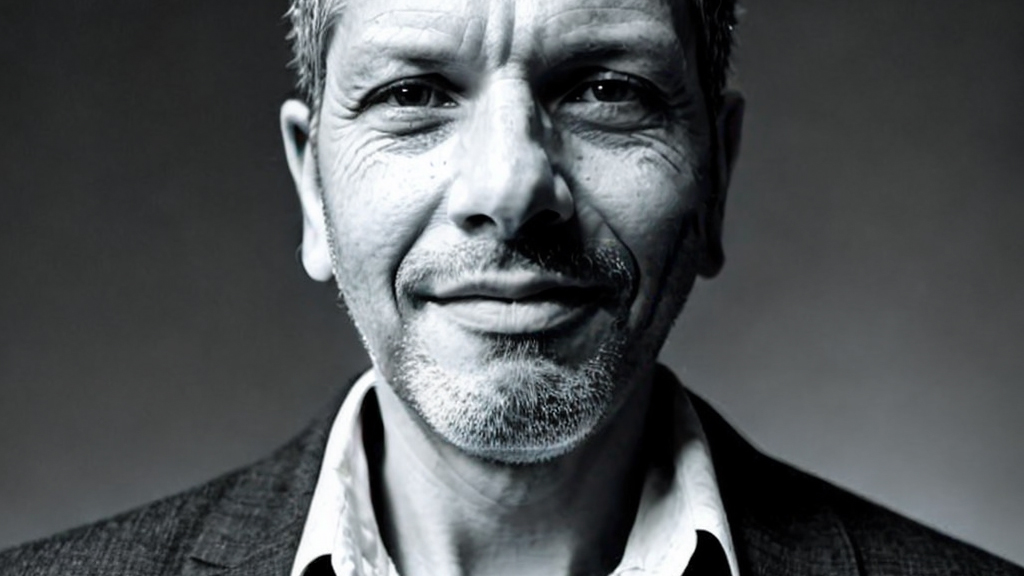
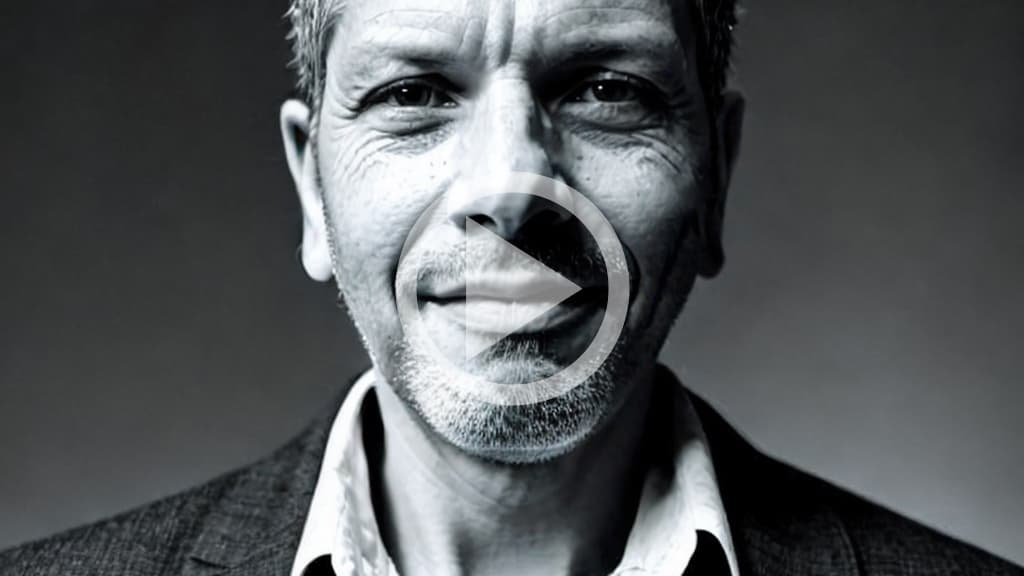
Initial commit

Changed region(s): [[0.375, 0.3438, 0.5625, 0.6562], [0.4688, 0.2812, 0.625, 0.7188]]

diff --git a/src/components/TheContent.vue b/src/components/TheContent.vue
@@ -9,7 +9,9 @@
     <div class="mx-auto max-w-7xl px-6 lg:px-8">
       <div class="mx-auto max-w-2xl py-16 sm:py-24 lg:py-28">
         <div class="text-center">
-          <img class="rounded-lg" src="../assets/image.jpg" alt="" />
+          <a href="https://youtu.be/dQw4w9WgXcQ">
+            <img class="rounded-lg video-image" src="../assets/image.jpg" alt="" />
+          </a>
           <h2 class="mt-6 text-3xl pb-6 leading-8 text-white">
             Welcome to <span class="font-bold text-yellow-500">Bnei Adam</span>
           </h2>
@@ -154,3 +156,13 @@ const features = [
   }
 ]
 </script>
+
+<style>
+.video-image {
+  transition: filter 0.3s ease;
+}
+
+.video-image:hover {
+  filter: brightness(1.2);
+}
+</style>
